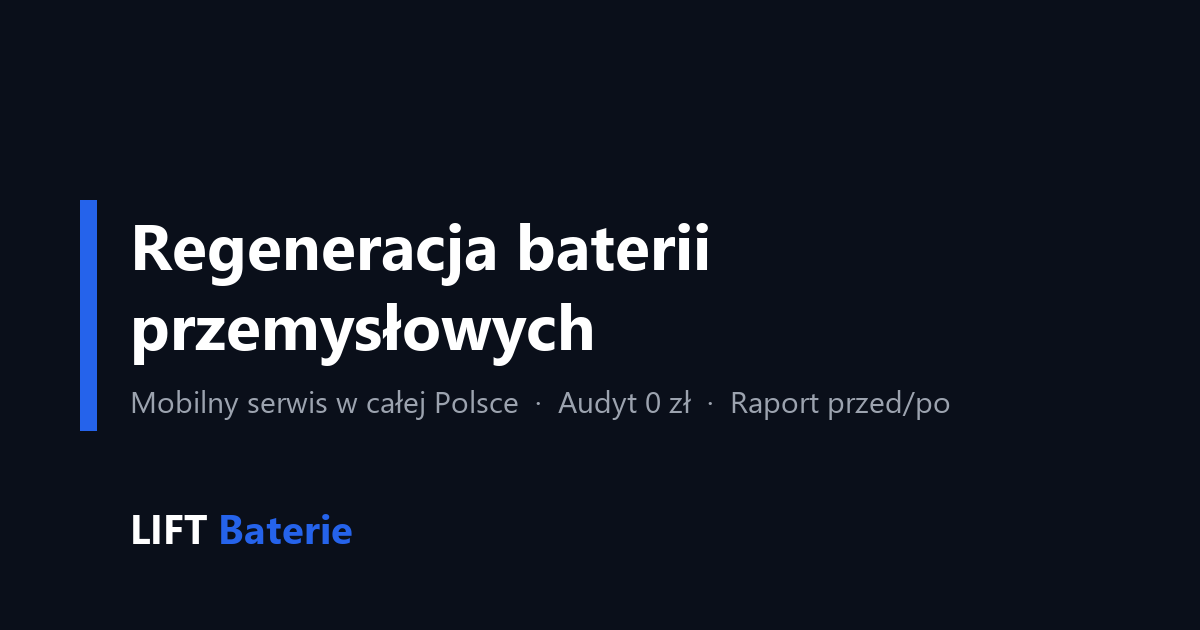
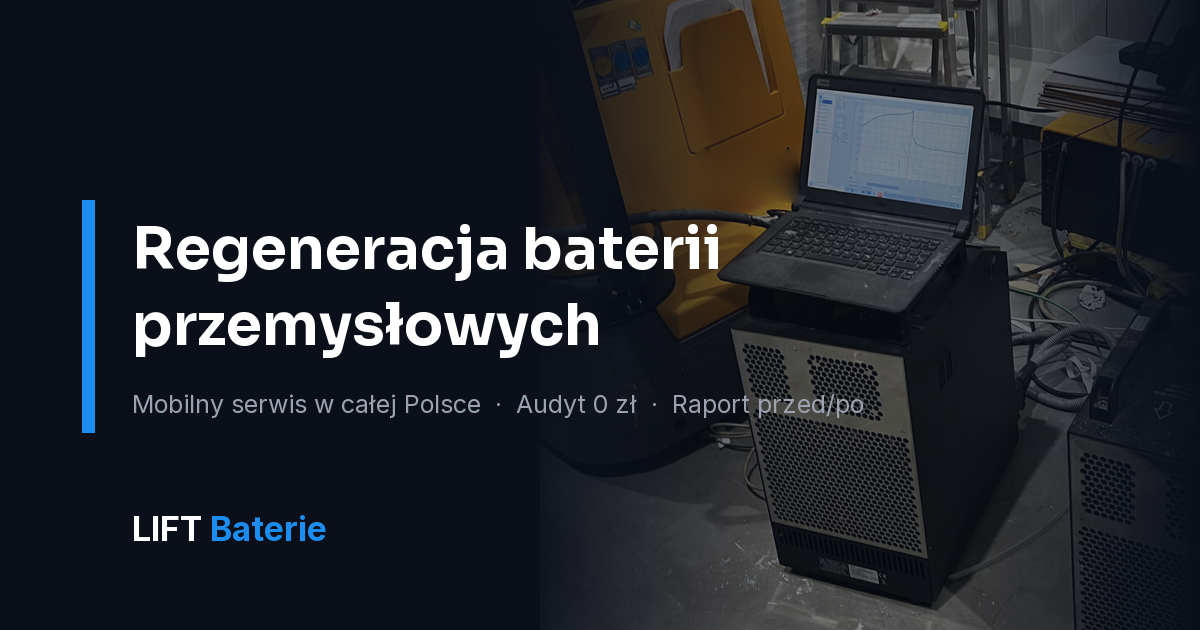
feat: add report graphic, annual service package and Google Ads image assets

diff --git a/src/config/results.ts b/src/config/results.ts
@@ -32,11 +32,24 @@ export interface RegenerationResult {
   nominalAh: number;
 }
 
+/**
+ * Two cases, not the full set, and that is a deliberate edit (Wojtek,
+ * 2026-08-24). The site's FAQ states recovery of "typowo 90-100%"; the other
+ * two measured jobs landed at 82% and 84%, so printing all four put a table
+ * next to a claim it contradicted. Showing the two that clear 90% keeps the
+ * page internally consistent.
+ *
+ * ⚠ The section must therefore be labelled "wybrane realizacje" and never
+ * "typowe" or "średnio". Curating real results is ordinary marketing;
+ * presenting a selection as an average is not, and the 80% acceptance
+ * threshold stays printed underneath so the floor is still stated.
+ *
+ * Withheld, for the record: 48 V / 620 Ah 69% -> 82%, 24 V / 175 Ah 70% -> 84%,
+ * 24 V / 250 Ah 58% -> 76%. All real, all in the reports folder.
+ */
 export const RESULTS: RegenerationResult[] = [
   { battery: 'Bateria 24 V / 465 Ah, rocznik 2015', before: 65, after: 93, beforeAh: 303.3, afterAh: 433.9, nominalAh: 465 },
   { battery: 'Bateria 48 V / 620 Ah', before: 84, after: 95, beforeAh: 524.8, afterAh: 589.6, nominalAh: 620 },
-  { battery: 'Bateria 48 V / 620 Ah, druga sztuka', before: 69, after: 82, beforeAh: 430.9, afterAh: 509.0, nominalAh: 620 },
-  { battery: 'Bateria 24 V / 175 Ah', before: 70, after: 84, beforeAh: 123.4, afterAh: 148.0, nominalAh: 175 },
 ];
 
 /** Largest single recovery in the set, used for the headline figure. */

diff --git a/src/config/photos.ts b/src/config/photos.ts
@@ -9,6 +9,7 @@ import batteryCellsTopview from '../assets/photos/battery-cells-topview.jpg';
 import cellsConnectorsDetail from '../assets/photos/cells-connectors-detail.jpg';
 import batteryInTruck from '../assets/photos/battery-in-truck.jpg';
 import sulphatedBatteryBefore from '../assets/photos/sulphated-battery-before.jpg';
+import dischargeReport from '../assets/photos/discharge-report.jpg';
 
 export interface Photo {
   src: ImageMetadata;
@@ -65,5 +66,16 @@ export const PHOTOS = {
     src: sulphatedBatteryBefore,
     alt: 'Zaniedbana bateria trakcyjna z nalotem siarczanu na łącznikach, stan przed regeneracją',
     caption: 'Stan przy przyjęciu: nalot na łącznikach i zasiarczone ogniwa.',
+  },
+  /**
+   * A real report rendered from the device's own PDF export, not a photograph
+   * of a printout. The end customer's company, address, contact person and the
+   * battery serial and make are masked; FTU LIFT's own details stay, because
+   * they are on the site anyway.
+   */
+  dischargeReport: {
+    src: dischargeReport,
+    alt: 'Raport testu rozładowania baterii trakcyjnej 24 V 465 Ah z wynikiem 93% pojemności znamionowej',
+    caption: 'Raport z urządzenia. Taki dokument dostaje klient po każdej usłudze.',
   },
 } satisfies Record<string, Photo>;
